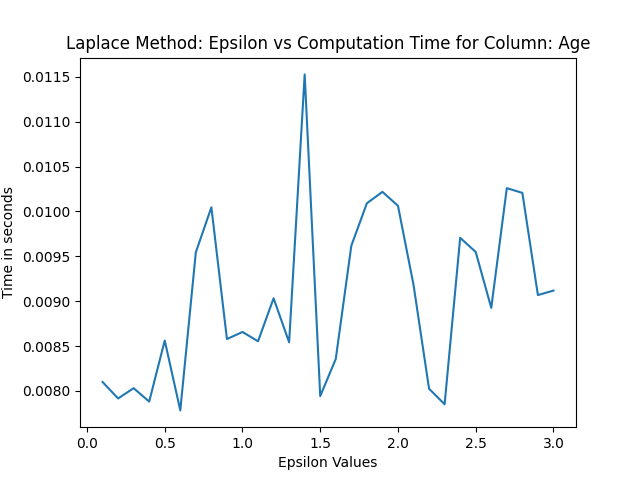
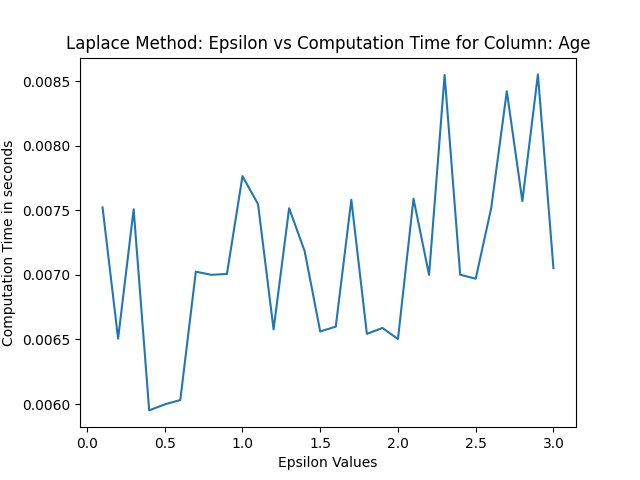
Update readme

diff --git a/algorithms/cms.py b/algorithms/cms.py
@@ -18,8 +18,8 @@ def test_cms_histograms(data_column):
     data_values = np.sort(data_column.unique())
 
     hash_val = 10
-    row = 30
-    epsilon = 1
+    row = 50
+    epsilon = 0.1
     n = len(data_column)
 
     print("Computing Sketch Matrix")
@@ -30,11 +30,17 @@ def test_cms_histograms(data_column):
     for value in data_values:
         estimated_counts.append(sketch.estimate_data_element(value))
 
-    data_column_counts.plot(kind="bar")
-    plt.bar(range(len(data_column_counts)), data_column_counts)
-    plt.show()
-
-    plt.bar(range(len(estimated_counts)), estimated_counts)
+    bar_width = 0.35
+    plt.bar(range(len(data_column_counts)), data_column_counts, bar_width, label="Real Counts")
+    plt.bar([p + bar_width for p in range(len(estimated_counts))], estimated_counts, bar_width, label="Estimated Counts")
+    plt.legend()
+    plt.xlabel("General Health")
+    plt.xticks(rotation=0)
+    plt.ylabel("Number of People")
+    plt.title("Histogram CSM Estimated vs Real Counts")
+    plt.text(.01, .99, "Epsilon = " + str(epsilon) + "\nk = " + str(hash_val) + "\nm = " + str(row),
+             ha='left', va='top', transform=plt.gca().transAxes)
+    plt.savefig("figures/cms_histogram_hash="+str(hash_val)+"_rows="+str(row)+"_epsilon="+str(epsilon)+".png")
     plt.show()
 
     normalized_estimated_counts = [element/n for element in estimated_counts]
@@ -43,19 +49,18 @@ def test_cms_histograms(data_column):
 
 
 def test_loaded_matrix():
-    visualization_array = np.load("figures/cms_heatmap_epsilon=0.5_rows10to110_hashes1to11_not_normalized.npy")
-    hashes_min = 100
-    hashes_max = 1100
-    hashes_step = 100
-    rows_min = 20
-    rows_max = 220
-    rows_step = 20
+    visualization_array = np.load("figures/cms_heatmap_epsilon=0.5_rows10to210_hashes1to21.npy")
+    hashes_min = 1
+    hashes_max = 21
+    rows_min = 10
+    rows_max = 210
+    epsilon = 0.5
     extent = [rows_min, rows_max, hashes_min, hashes_max]
 
     print(visualization_array)
     plt.imshow(visualization_array, cmap="hot", interpolation="nearest", extent=extent, aspect="auto")
     plt.colorbar(label="Normalized RMSE between Real values and Estimations")
-    plt.title("Count Mean Sketch Heatmap")
+    plt.title("Count Mean Sketch Heatmap, Epsilon = " + str(epsilon))
     plt.xlabel("Number of Rows")
     plt.ylabel("Number of Hashes")
     plt.show()
@@ -63,12 +68,12 @@ def test_loaded_matrix():
 
 def test_count_mean_sketch(data_column, epsilon):
     n = len(data_column)
-    hashes_min = 100
-    hashes_max = 1100
-    hashes_step = 100
-    rows_min = 20
-    rows_max = 220
-    rows_step = 20
+    hashes_min = 1
+    hashes_max = 1000
+    hashes_step = 99
+    rows_min = 5
+    rows_max = 1000
+    rows_step = 99
     extent = [rows_min, rows_max, hashes_min, hashes_max]
     hashes = np.arange(hashes_min, hashes_max, hashes_step)
     rows = np.arange(rows_min, rows_max, rows_step)
@@ -108,7 +113,7 @@ def test_count_mean_sketch(data_column, epsilon):
     np.save("figures/cms_heatmap_epsilon=" + str(epsilon) + "_rows" + str(rows_min) + "to"+str(rows_max) + "_hashes"+str(hashes_min) +
             "to" + str(hashes_max), visualization_array)
     np.save(
-        "figures/cms_heatmap_epsilon=" + str(epsilon) + "0.5_rows" + str(rows_min) + "to" + str(rows_max) + "_hashes" + str(hashes_min) +
+        "figures/cms_heatmap_epsilon=" + str(epsilon) + "_rows" + str(rows_min) + "to" + str(rows_max) + "_hashes" + str(hashes_min) +
         "to" + str(hashes_max) + "_not_normalized", visualization_array_2)
     plt.imshow(visualization_array, cmap="hot", interpolation="nearest", extent=extent, aspect="auto")
     plt.colorbar(label="Normalized RMSE between Real values and Estimations")

diff --git a/algorithms/laplace.py b/algorithms/laplace.py
@@ -16,19 +16,19 @@ def test_laplace(test_column, column_name):
         times.append(end-start)
 
         # calculate errors between the columns
-        errors.append(((test_column - laplace_column)**2).mean())
+        errors.append((((test_column - laplace_column)/len(test_column))**2).mean())
 
     plt.title("Laplace Method: Epsilon vs Computation Time for Column: " + column_name)
     plt.plot(epsilons, times)
     plt.xlabel("Epsilon Values")
-    plt.ylabel("Time in seconds")
+    plt.ylabel("Computation Time in seconds")
     plt.savefig("figures/laplace_eps_vs_comp_" + column_name + ".png")
     plt.show()
 
-    plt.title("Laplace Mechanism: MSE vs Epsilon for Column: " + column_name)
+    plt.title("Laplace: Normalized MSE vs Epsilon for Column: " + column_name)
     plt.plot(epsilons, errors)
     plt.xlabel("Epsilon Values")
-    plt.ylabel("Mean Squared Error")
+    plt.ylabel("Normalized Mean Squared Error")
     plt.savefig("figures/laplace_eps_vs_mse_" + column_name + ".png")
     plt.show()
 
@@ -39,6 +39,8 @@ def test_laplace(test_column, column_name):
     plt.hist(test_column, bins=30, color="b", alpha=alpha, label="True Values")
     plt.hist(laplace_column, bins=30, color="r", alpha=alpha, label="Laplace Values")
     plt.legend()
+    plt.xlabel("Age Range (1 is 18-24, 9 is 60-64, 13 is 80+)")
+    plt.ylabel("Number of people")
     plt.text(.01, .99, "Epsilon = " + str(epsilon), ha='left', va='top', transform=plt.gca().transAxes)
     plt.savefig("figures/laplace_hist_" + column_name + ".png")
     plt.show()

diff --git a/main.py b/main.py
@@ -15,7 +15,8 @@ def main():
 
     # Test Count min Sketch
     #test_loaded_matrix()
-    test_count_mean_sketch(features["GenHlth"], 3)
+    test_count_mean_sketch(features["GenHlth"], 0.5)
+    #test_cms_histograms(features["GenHlth"])
 
 
 if __name__ == "__main__":
